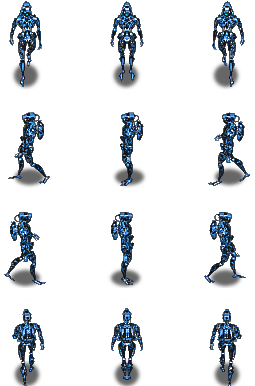
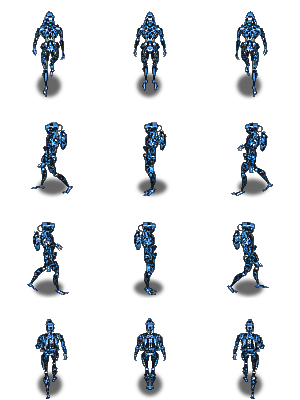
Update to alien sprite; added empty testing room

diff --git a/src/scenes/Arena.js b/src/scenes/Arena.js
@@ -1,0 +1,61 @@
+/**
+ * Arena.js: A scene to test combat functionality.
+ */
+const Player = require('../player.js').default;
+const Enemy = require('../enemy.js').default;
+
+let player;
+let enemy;
+
+class Arena extends Phaser.Scene {
+    constructor() {
+        super({ key: 'Arena' });
+    }
+
+    preload() {
+        this.load.image("floor-tiles", "tilesets/A5_SciFi.png");
+        this.load.image("wall-tiles", "tilesets/Ship2_Bottom.png");
+        this.load.tilemapTiledJSON("starship", "tilesets/Starship-Map.json");
+        this.load.spritesheet("captain", "/images/YappinToTheCaptain.png", {
+            frameWidth: 80,
+            frameHeight: 80,
+        });
+        this.load.spritesheet("alien", "/images/Alien1.png", {
+            frameWidth: 100,
+            frameHeight: 100,
+        });
+    }
+
+    create() {
+        const map = this.make.tilemap({ key: "starship" });
+        const floorTileset = map.addTilesetImage("floor", "floor-tiles");
+        const wallTileset = map.addTilesetImage("wall1", "wall-tiles");
+
+        map.createLayer("Ground", floorTileset, 0, 0);
+        const wallsLayer = map.createLayer("Walls", wallTileset, 0, 0);
+
+        wallsLayer.setCollisionByProperty({ collides: true });
+    
+        player = new Player(this, 400, 300);
+        this.physics.add.collider(player.sprite, wallsLayer);
+        player.sprite.setImmovable(true)
+    
+        enemy = new Enemy(this, 800, 300);
+        enemy.sprite.setImmovable(true)
+        this.physics.add.collider(enemy.sprite, wallsLayer);
+
+        this.physics.add.collider(player.sprite, enemy.sprite, function () {
+            player.sprite.setTint(0xff0000);
+            const damageAmount = 0.5;
+            player.healthBar.decrease(damageAmount);
+        });
+    }
+
+    update() {
+        player.update();
+        enemy.update(player);
+    }
+
+}
+
+module.exports = Arena;

diff --git a/src/index.js b/src/index.js
@@ -2,15 +2,13 @@ const Phaser = require('phaser');
 // const Player = require('./player.js').default;
 // const Enemy = require('./enemy.js').default;
 
-const sceneArr = [ MainMenu, Scene1, Example2, endingScene ];
+const sceneArr = [ MainMenu, Scene1, Example2, endingScene, Arena ];
 
 const path = window.location.pathname;
 if (path.length > 1) {
-  const targetIndex = Number(path.substr(1));
+  const targetIndex = Number(path.substring(1));
   sceneArr.unshift(sceneArr.splice(targetIndex, 1)[0]);
 }
-
-console.log(sceneArr);
 
 let player;
 let enemy;
@@ -19,6 +17,7 @@ import MainMenu from './MainMenu';
 import Scene1 from './Scene1';
 import Example2 from './Example2';
 import endingScene from "./endingScene";
+import Arena from './scenes/Arena.js';
 
 let config = {
   type: Phaser.AUTO,

diff --git a/src/Scene1.js b/src/Scene1.js
@@ -29,8 +29,8 @@ class Scene1 extends Phaser.Scene {
     frameHeight: 80,
   });
   this.load.spritesheet("alien", "/images/Alien1.png", {
-    frameWidth: 80,
-    frameHeight: 80,
+    frameWidth: 100,
+    frameHeight: 100,
   });
     }
     
